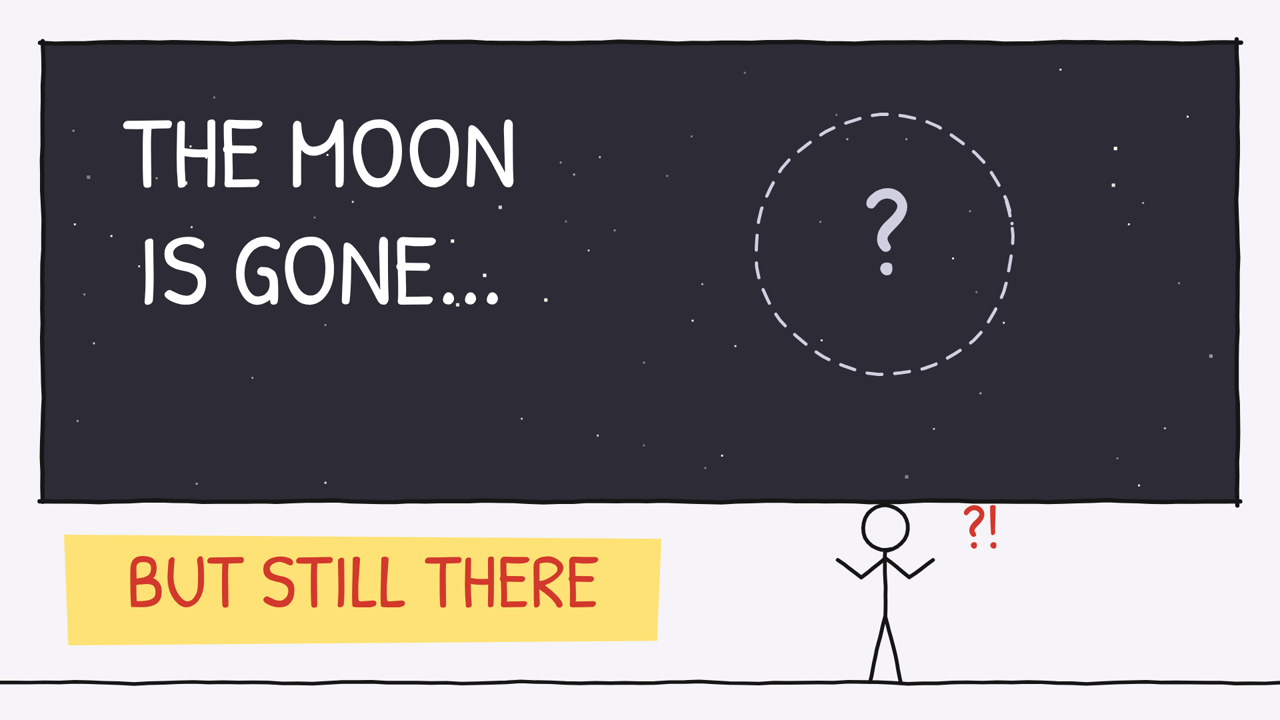
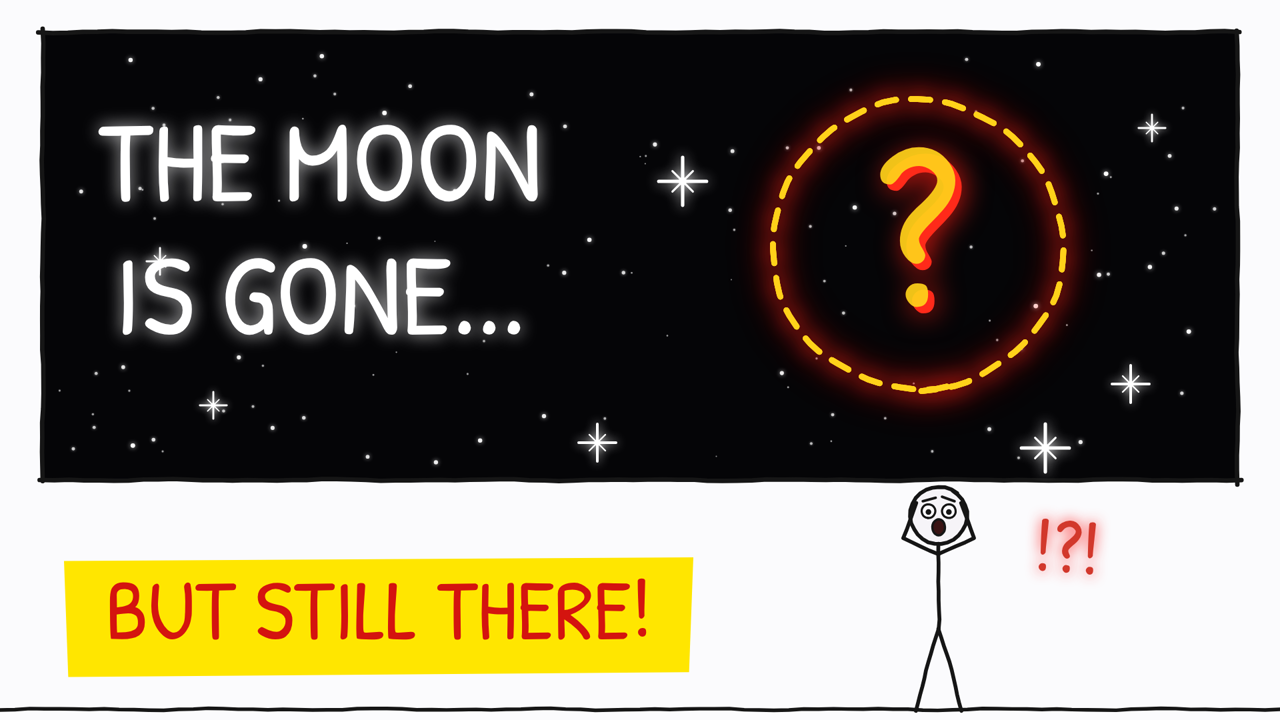
Upgrade thumbnail C: black sky, glow, scared face
Claude-Session: https://claude.ai/code/session_01QZBGd8qH4EfV1MNE2nHfnB

diff --git a/moon-blackhole/source/thumbC2.js b/moon-blackhole/source/thumbC2.js
@@ -1,0 +1,29 @@
+function glow(c,b){ctx.shadowColor=c;ctx.shadowBlur=b;}
+function noGlow(){ctx.shadowBlur=0;ctx.shadowColor='transparent';}
+function sparkle(x,y,s){glow('rgba(255,255,255,0.9)',12*s);ctx.strokeStyle='#fff';ctx.lineWidth=2*s;ctx.lineCap='round';ctx.beginPath();ctx.moveTo(x-14*s,y);ctx.lineTo(x+14*s,y);ctx.moveTo(x,y-14*s);ctx.lineTo(x,y+14*s);ctx.stroke();
+  ctx.lineWidth=1.2*s;ctx.beginPath();ctx.moveTo(x-6*s,y-6*s);ctx.lineTo(x+6*s,y+6*s);ctx.moveTo(x+6*s,y-6*s);ctx.lineTo(x-6*s,y+6*s);ctx.stroke();ctx.fillStyle='#fff';ctx.beginPath();ctx.arc(x,y,2.4*s,0,TAU);ctx.fill();noGlow();}
+function scaredFace(x,y,r){for(const sd of[-1,1]){ctx.fillStyle=PAPER;ctx.beginPath();ctx.arc(x+sd*r*0.36,y-r*0.15,r*0.24,0,TAU);ctx.fill();circ(x+sd*r*0.36,y-r*0.15,r*0.24,{seed:8000+sd,w:2});ctx.fillStyle=INK;ctx.beginPath();ctx.arc(x+sd*r*0.36,y-r*0.12,r*0.1,0,TAU);ctx.fill();
+    line(x+sd*r*0.12,y-r*0.66,x+sd*r*0.56,y-r*0.5,8010+sd,1,2.4);}
+  ctx.fillStyle='#3a1414';ctx.beginPath();ctx.ellipse(x,y+r*0.42,r*0.22,r*0.28,0,0,TAU);ctx.fill();circ(x,y+r*0.42,r*0.22,{ry:r*0.28,seed:8020,w:2.2});}
+function drawC2(){ctx.setTransform(1,0,0,1,0,0);ctx.fillStyle='#fbfbfd';ctx.fillRect(0,0,W,H);const S=1.6;ctx.scale(S,S);
+  // black sky
+  ctx.fillStyle='#050507';ctx.fillRect(40,30,1120,420);rect(40,30,1120,420,8100,1,LW+0.8);
+  const R=rng(8101);for(let i=0;i<120;i++){const x=55+R()*1090,y=45+R()*390;const b=R();glow('rgba(255,255,255,0.8)',b*8);ctx.fillStyle=`rgba(255,255,255,${0.35+b*0.65})`;ctx.beginPath();ctx.arc(x,y,0.6+b*1.6,0,TAU);ctx.fill();}noGlow();
+  [[200,380],[560,415],[640,170],[1080,120],[1060,360],[980,420],[150,245]].forEach(([x,y],i)=>sparkle(x,y,0.9+0.35*(i%3)));
+  // glowing headline
+  glow('rgba(255,255,255,0.75)',26);txt('THE MOON',300,160,108,{col:'#ffffff'});txt('IS GONE...',300,285,108,{col:'#ffffff'});noGlow();
+  // the empty spot: dashed yellow ring with red glow + big ?
+  for(let i=0;i<3;i++){glow('rgba(255,30,20,1)',30+i*14);circ(860,230,135,{dash:[18,14],seed:8110,w:5.5,col:'#ffd21a'});}noGlow();
+  glow('rgba(255,30,20,1)',44);txt('?',864,242,220,{col:'#ff2a1a'});noGlow();
+  ctx.save();ctx.globalAlpha=0.92;txt('?',858,236,220,{col:'#ffd21a'});ctx.restore();
+  // ground + scared figure with hands on head
+  line(0,665,1200,665,8120,1,LW);
+  const hands={la:[-2.0,2.79],ra:[2.0,-2.79],ll:[-0.3,-0.24],rl:[0.3,0.24],paper:0};
+  figure(880,668,hands,{s:0.7,seed:8130});scaredFace(880,668-264*0.7,38*0.7);
+  glow('rgba(255,30,30,0.9)',20);txt('!?!',1000,520,72,{col:RED,rot:0.08});noGlow();
+  // yellow banner
+  ctx.save();ctx.fillStyle='#ffe600';const Q=rng(8140);ctx.beginPath();ctx.moveTo(60,525+Q()*5);ctx.lineTo(650,522+Q()*5);ctx.lineTo(646,630+Q()*5);ctx.lineTo(64,633+Q()*5);ctx.closePath();ctx.fill();ctx.restore();
+  txt('BUT STILL THERE!',355,578,80,{col:'#d4140f'});
+}
+window.ready=Promise.all([document.fonts.load('40px "PH"'),document.fonts.load('40px "PHL"')]).then(()=>document.fonts.ready).then(()=>drawC2());
+</script></body></html>
